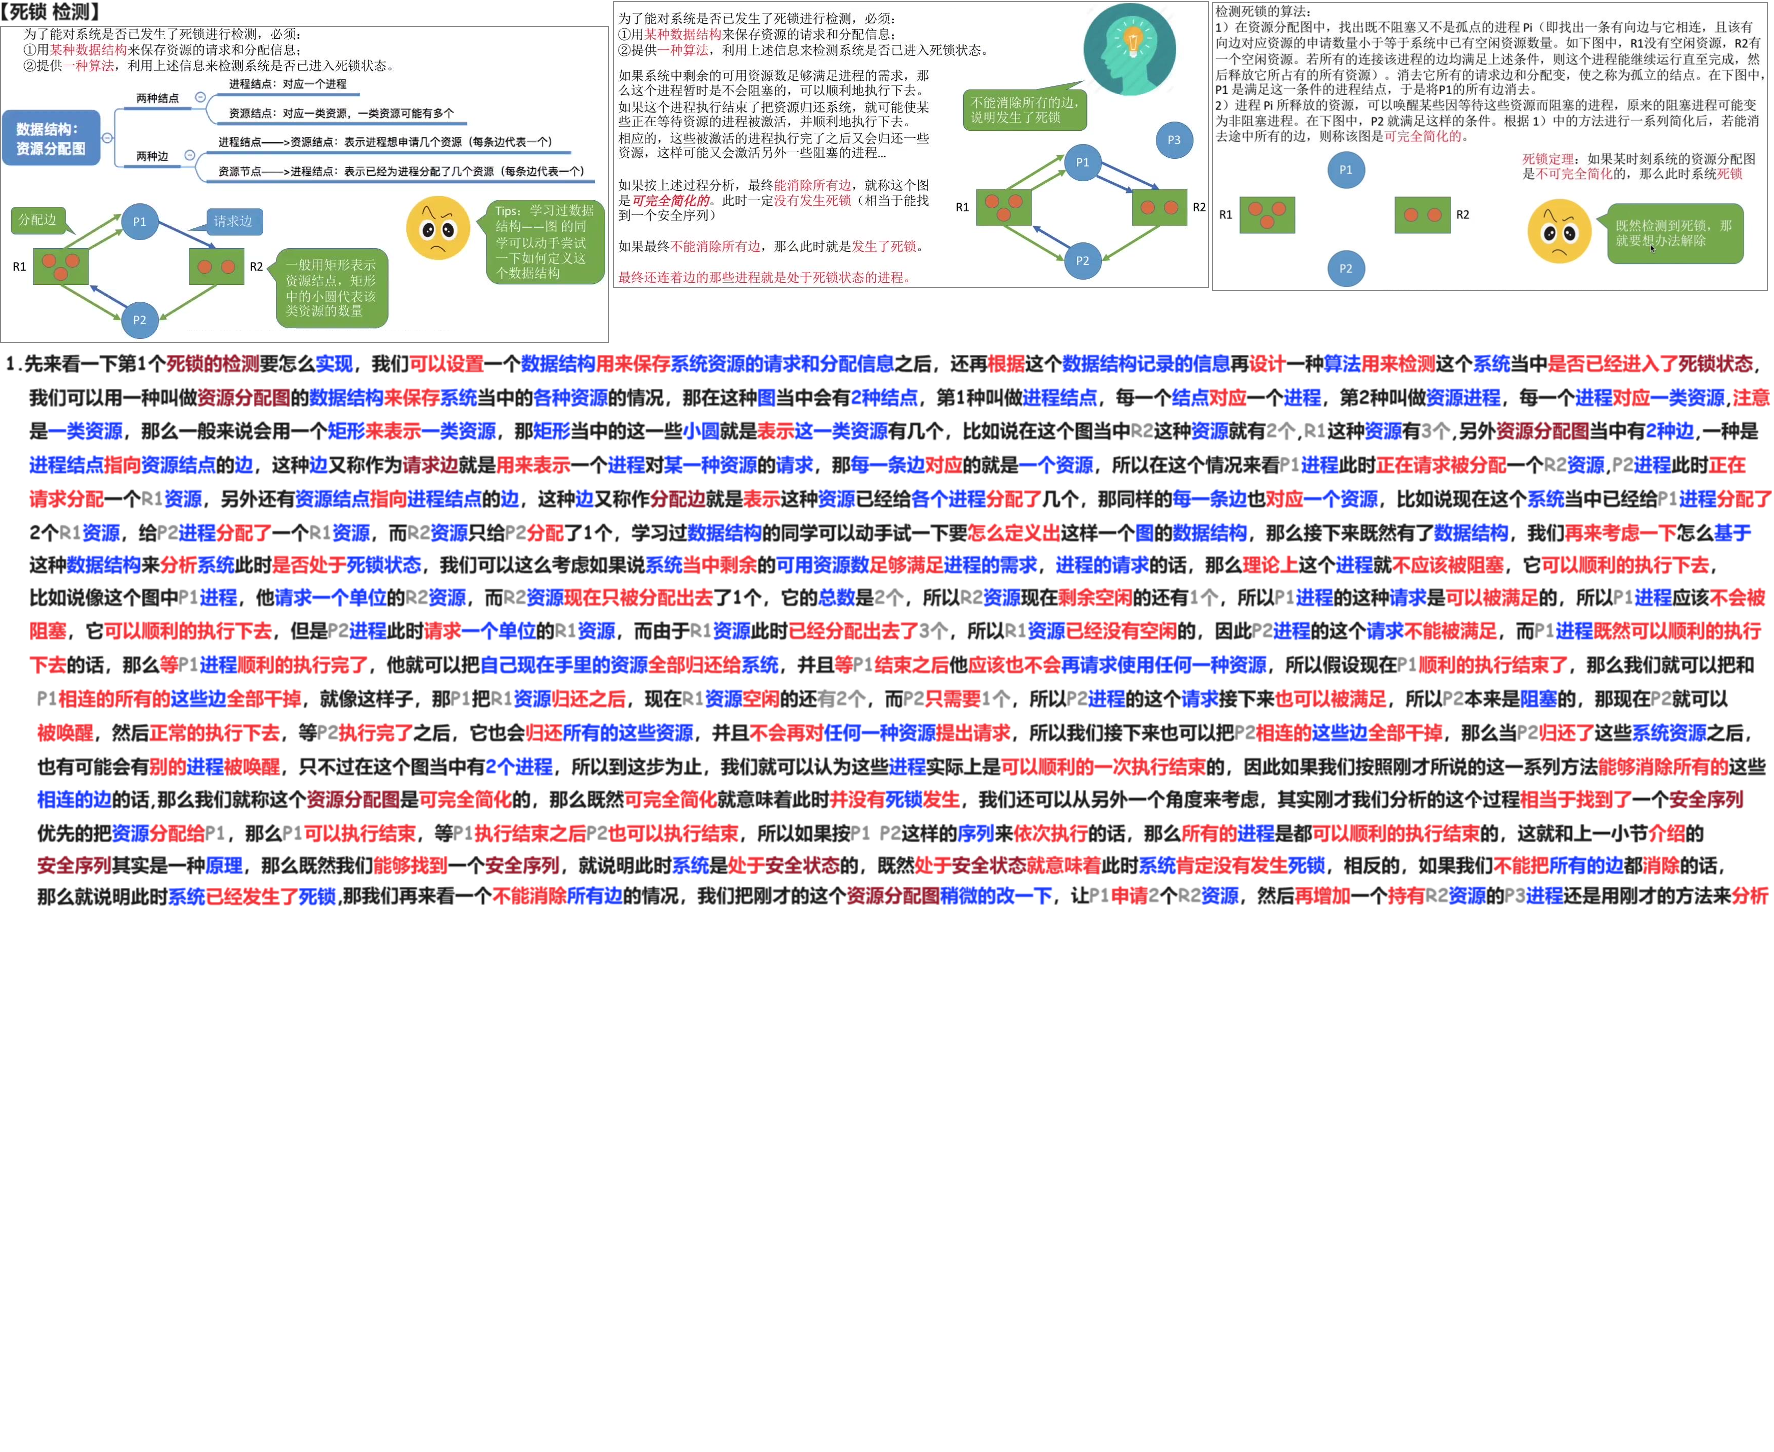
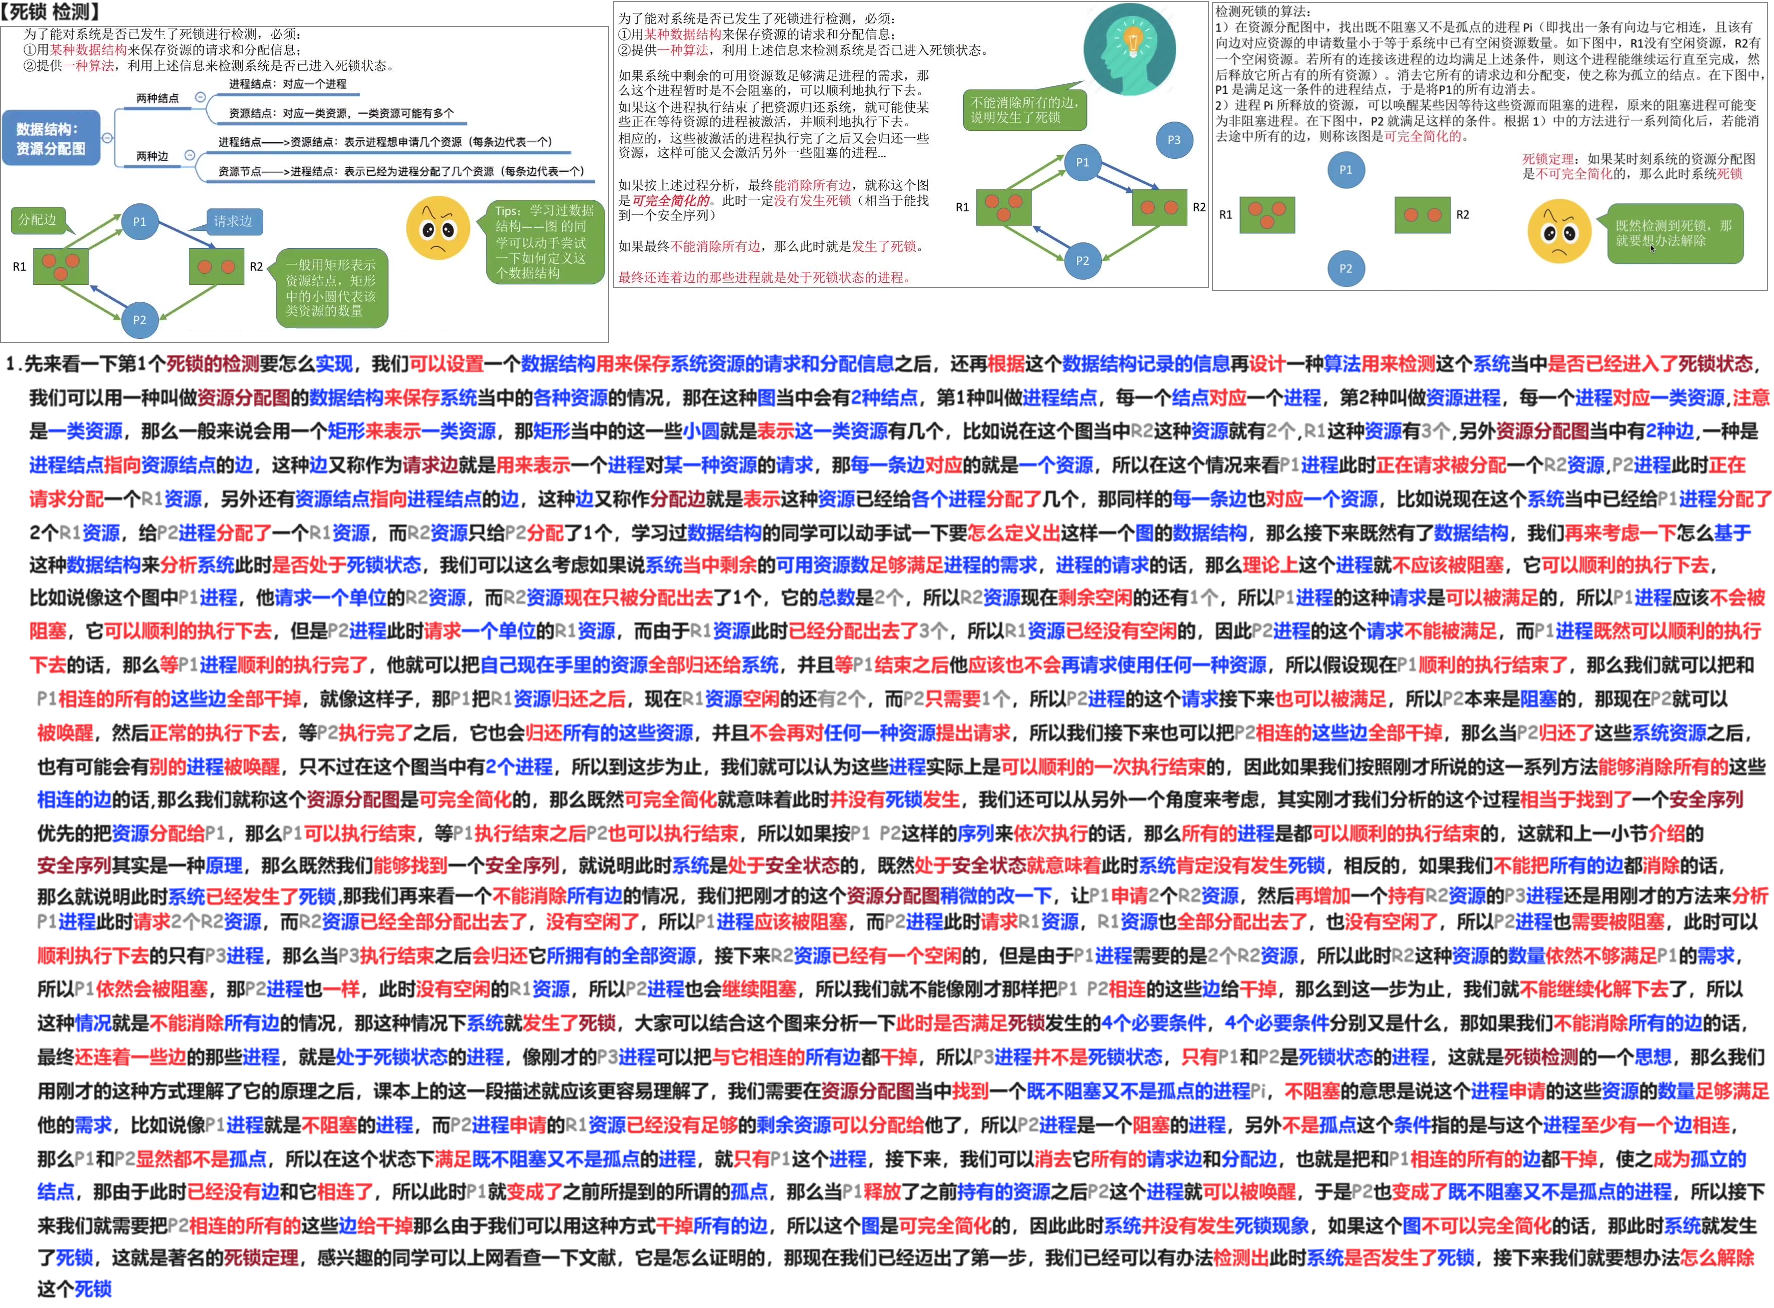
240509

diff --git a/01 初试/01 OS/02 24 25 王道/01 基础/02 进程 线程/04 死锁/04 死锁 处理策略 死锁 检测 解除 240509/02 Doc.md b/01 初试/01 OS/02 24 25 王道/01 基础/02 进程 线程/04 死锁/04 死锁 处理策略 死锁 检测 解除 240509/02 Doc.md
@@ -9,3 +9,16 @@
 
 
 # 02 死锁 检测
+
+<img src="https://cvp.oss-cn-shanghai.aliyuncs.com/picgo/202405100755032.png" alt="image-20240510075521614" style="zoom:50%;" />
+
+
+
+# 03 死锁 解除
+
+<img src="https://cvp.oss-cn-shanghai.aliyuncs.com/picgo/202405100832892.png" alt="image-20240510083253661" style="zoom:33%;" />
+
+
+
+# 04 知识回顾与重要考点
+
